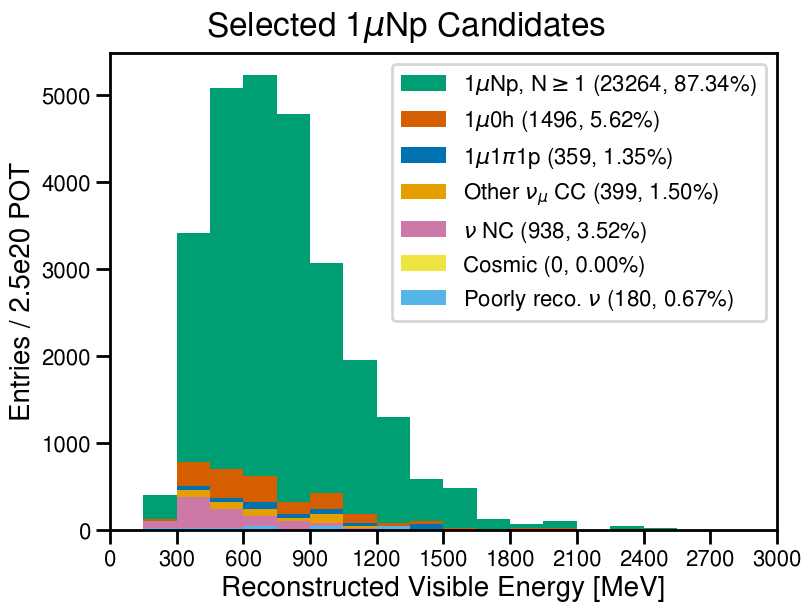
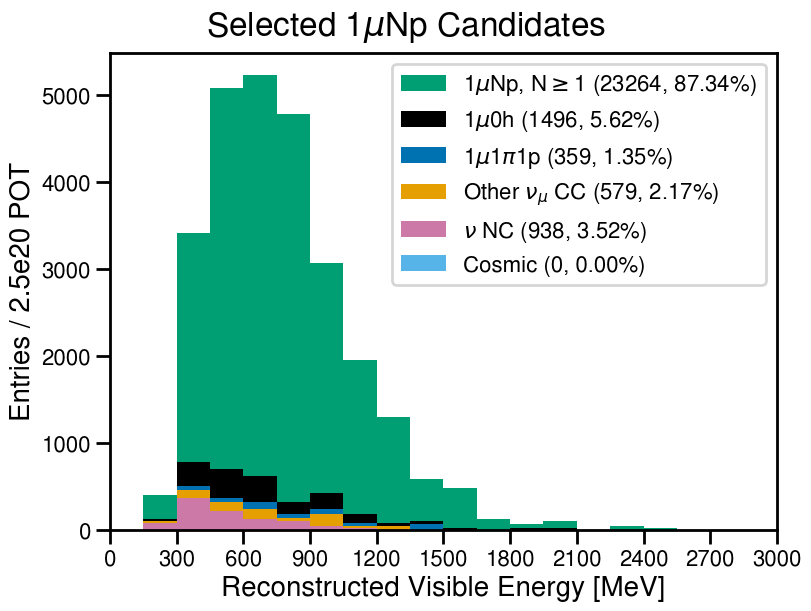
Changed order of labels and colors

diff --git a/plotting/plot_funcs.py b/plotting/plot_funcs.py
@@ -164,7 +164,10 @@ def plot_histogram_1d(rf, desc):
             centers = [centers[m[0]] for m in desc.merge]
             edges = [edges[m[0]] for m in desc.merge]
             labels = [labels[m[0]] for m in desc.merge]
-            cs = [cs[m[-1]] for m in desc.merge]
+            if hasattr(desc, 'colors'):
+                cs = [cs[i] for i in desc.colors]
+            else:
+                cs = [cs[np.min(m)] for m in desc.merge]
         
     if desc.plot_kwargs.get('histtype', 'none') == 'barstacked':
         cs = cs[::-1]
